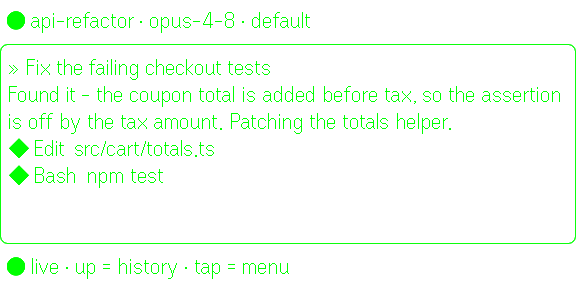
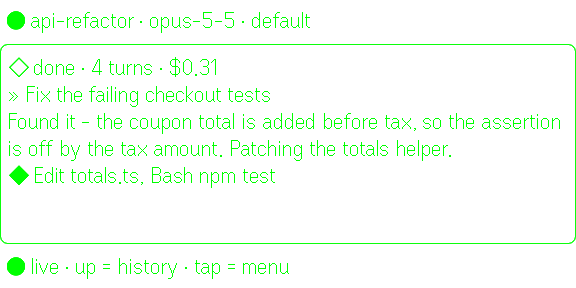
docs: refresh README/.env.example; add a mock bridge; re-stage stale store shots
README: point at the canonical hosts (code.claude.com/docs and
hub.evenrealities.com -- the old URLs redirect), fix a typo, and use
spaced hyphens in the release-notice paragraph like the rest of the
README.

.env.example: document VITE_LIVE_ROWS and VITE_HUD_CHARS_PER_ROW, which
config.ts reads but the file (which the README says lists them all)
omitted; describe the live tail as row-budgeted with a byte ceiling; and
leave VITE_BRIDGE_TOKEN blank. The bridge reads this file and binds
0.0.0.0, so copying it unedited used to run a session-steering bridge on
the well-known token `change-me`; blank falls through to the generated
passphrase, which the bridge prints.

scripts/mock-bridge.py serves three fictional sessions (no login,
nothing real to steer) for simulator work and store-shot staging. The
script the store shots were first staged with was never committed and is
gone; this one reproduces 01-sessions.png byte-for-byte. CLAUDE.md now
says to point the simulator at it, never at a real bridge.

Re-staged with it: 02-session-live.png (the README hero), which showed
opus-4-8 and the pre-1.6 one-line-per-tool layout that the README says
tool runs no longer use, and 08-panel.png, which showed Opus 4.8.

diff --git a/scripts/mock-bridge.py b/scripts/mock-bridge.py
@@ -1,0 +1,242 @@
+#!/usr/bin/env python3
+"""A mock Claude Remote bridge that serves three fictional sessions.
+
+For driving the app (dev server, simulator, browser) with no Claude login and
+nothing real to steer, and for staging the store screenshots in assets/store/
+(the repo is public, so never shoot real sessions). It implements the read side
+of the bridge API with the shapes in src/rc/types.ts; every POST is accepted and
+ignored, and any token is accepted.
+
+    python3 scripts/mock-bridge.py [--port 8791] [--question]
+    VITE_BRIDGE_URL=http://localhost:8791 VITE_BRIDGE_TOKEN=x npm run dev
+
+Sessions: api-refactor (running), docs-site (idle), and payment-service, blocked
+on a Bash permission, or on an AskUserQuestion with --question.
+"""
+
+from __future__ import annotations
+
+import argparse
+import json
+import re
+import time
+from http.server import BaseHTTPRequestHandler, ThreadingHTTPServer
+from typing import Any, ClassVar
+from urllib.parse import urlparse
+
+
+def _ago(minutes: int) -> str:
+    return time.strftime("%Y-%m-%dT%H:%M:%SZ", time.gmtime(time.time() - minutes * 60))
+
+
+def _session(sid: str, title: str, worker: str, model: str, minutes_ago: int) -> dict[str, Any]:
+    return {
+        "id": sid,
+        "title": title,
+        "status": "active",
+        "workerStatus": worker,
+        "connectionStatus": "connected",
+        "statusBucket": None,
+        "model": model,
+        "permissionMode": "default",
+        "lastEventAt": _ago(minutes_ago),
+        "unread": False,
+        "userMessageCount": 2,
+        "pendingAction": None,
+    }
+
+
+def _event(seq: int, kind: str, **f: Any) -> dict[str, Any]:
+    control = f.get("control")
+    return {
+        "type": kind,
+        "subtype": f.get("subtype"),
+        "role": kind if kind in ("user", "assistant") else None,
+        "text": f.get("text", ""),
+        "toolUses": [
+            {"name": name, "input": inp, "id": f"toolu_{seq}_{i}"} for i, (name, inp) in enumerate(f.get("tools", []))
+        ],
+        "sequenceNum": seq,
+        "id": f"ev-{seq}",
+        "timestamp": None,
+        "model": f.get("model"),
+        "isTurnEnd": kind == "result",
+        "isTerminal": False,
+        "isBlockingControl": control is not None,
+        "blockingSubtype": "can_use_tool" if control else None,
+        "requestId": f"req-{seq}" if control else None,
+        "toolUseId": f"toolu_{seq}" if control else None,
+        "permissionRequest": control,
+        "usage": f.get("usage"),
+    }
+
+
+def _permission(tool: str, inp: dict[str, Any], questions: list[dict[str, Any]] | None = None) -> dict[str, Any]:
+    return {
+        "subtype": "can_use_tool",
+        "toolName": tool,
+        "toolUseId": None,
+        "input": inp,
+        "suggestions": None,
+        "dialogKind": None,
+        "questions": questions or [],
+        "prompt": None,
+        "raw": {},
+    }
+
+
+def _usage(turns: int, seconds: float, cost: float) -> dict[str, Any]:
+    return {"costUsd": cost, "numTurns": turns, "durationMs": int(seconds * 1000), "isError": False}
+
+
+RATE_LIMIT_QUESTION = {
+    "header": "Rate limit",
+    "question": "How should I rate-limit checkout?",
+    "multiSelect": False,
+    "options": [
+        {"label": "Token bucket", "description": "smooth bursts"},
+        {"label": "Fixed window", "description": "simplest"},
+        {"label": "Sliding window", "description": "needs Redis"},
+    ],
+}
+
+
+def build_world(question: bool) -> tuple[list[dict[str, Any]], dict[str, list[dict[str, Any]]]]:
+    sessions = [
+        _session("session_mock_api", "api-refactor", "running", "claude-opus-5-5", 0),
+        _session("session_mock_docs", "docs-site", "idle", "claude-sonnet-5-5", 42),
+        _session("session_mock_pay", "payment-service", "requires_action", "claude-opus-5-5", 3),
+    ]
+    if question:
+        blocker = _permission("AskUserQuestion", {"questions": [RATE_LIMIT_QUESTION]}, [RATE_LIMIT_QUESTION])
+    else:
+        blocker = _permission("Bash", {"command": "./scripts/deploy.sh staging", "description": "Deploy to staging"})
+    events = {
+        "session_mock_api": [
+            _event(1, "system", subtype="init", model="claude-opus-5-5"),
+            _event(2, "user", text="Refactor the checkout API to use the new session store"),
+            _event(
+                3,
+                "assistant",
+                text="Swapped the checkout routes onto the new session store and updated all three call sites.",
+                tools=[("Edit", {"file_path": "src/api/checkout.ts"}), ("Bash", {"command": "npx tsc --noEmit"})],
+            ),
+            _event(4, "result", subtype="success", usage=_usage(4, 92.0, 0.31)),
+            _event(5, "user", text="Fix the failing checkout tests"),
+            _event(
+                6,
+                "assistant",
+                text="Found it - the coupon total is added before tax, so the assertion is off by the tax "
+                "amount. Patching the totals helper.",
+                tools=[("Edit", {"file_path": "src/cart/totals.ts"}), ("Bash", {"command": "npm test"})],
+            ),
+        ],
+        "session_mock_docs": [
+            _event(1, "system", subtype="init", model="claude-sonnet-5-5"),
+            _event(2, "user", text="Proofread the getting-started guide"),
+            _event(
+                3,
+                "assistant",
+                text="Fixed four typos and a broken link to the install page.",
+                tools=[
+                    ("Read", {"file_path": "docs/getting-started.md"}),
+                    ("Edit", {"file_path": "docs/getting-started.md"}),
+                ],
+            ),
+            _event(4, "result", subtype="success", usage=_usage(3, 41.5, 0.12)),
+        ],
+        "session_mock_pay": [
+            _event(1, "system", subtype="init", model="claude-opus-5-5"),
+            _event(2, "user", text="Ship the rate limiter to staging"),
+            _event(3, "assistant", text="Tests pass. Deploying to staging next."),
+            _event(4, "control_request", control=blocker),
+        ],
+    }
+    return sessions, events
+
+
+_R_SESSION = re.compile(r"^/api/sessions/(?P<sid>[^/]+)(?P<rest>/events|/stream)?$")
+
+
+class _Handler(BaseHTTPRequestHandler):
+    sessions: ClassVar[list[dict[str, Any]]] = []
+    events: ClassVar[dict[str, list[dict[str, Any]]]] = {}
+
+    def log_message(self, fmt: str, *args: Any) -> None:
+        pass
+
+    def _cors(self) -> None:
+        self.send_header("Access-Control-Allow-Origin", "*")
+        self.send_header("Access-Control-Allow-Headers", "Authorization, Content-Type")
+        self.send_header("Access-Control-Allow-Methods", "GET, POST, OPTIONS")
+
+    def _json(self, obj: Any, status: int = 200) -> None:
+        body = json.dumps(obj).encode()
+        self.send_response(status)
+        self.send_header("Content-Type", "application/json")
+        self.send_header("Content-Length", str(len(body)))
+        self._cors()
+        self.end_headers()
+        self.wfile.write(body)
+
+    def do_OPTIONS(self) -> None:
+        self.send_response(204)
+        self._cors()
+        self.end_headers()
+
+    def do_POST(self) -> None:
+        self.rfile.read(int(self.headers.get("Content-Length") or 0))
+        self._json({"ok": True})
+
+    def do_GET(self) -> None:
+        path = urlparse(self.path).path
+        if path == "/api/whoami":
+            return self._json({"logged_in": True, "subscription": "max"})
+        if path in ("/api/sessions", "/api/sessions/"):
+            return self._json({"sessions": self.sessions})
+        m = _R_SESSION.match(path)
+        if not m:
+            return self._json({"error": "not found", "status": 404}, status=404)
+        session = next((s for s in self.sessions if s["id"] == m["sid"]), None)
+        if not session:
+            return self._json({"error": "session not active", "status": 409}, status=409)
+        if m["rest"] == "/events":
+            return self._json({"events": self.events.get(session["id"], [])})
+        if m["rest"] == "/stream":
+            return self._stream()
+        return self._json({"session": session})
+
+    def _stream(self) -> None:
+        """An SSE stream with nothing new to say: held open with keep-alives."""
+        self.send_response(200)
+        self.send_header("Content-Type", "text/event-stream")
+        self.send_header("Cache-Control", "no-cache")
+        self._cors()
+        self.end_headers()
+        try:
+            self.wfile.write(b"retry: 3000\n\n")
+            while True:
+                self.wfile.flush()
+                time.sleep(15)
+                self.wfile.write(b": keep-alive\n\n")
+        except (BrokenPipeError, ConnectionResetError):
+            pass
+
+
+def main() -> None:
+    ap = argparse.ArgumentParser(description=__doc__.split("\n\n")[0])
+    ap.add_argument("--port", type=int, default=8791, help="port (default 8791)")
+    ap.add_argument("--question", action="store_true", help="block payment-service on a question, not a permission")
+    args = ap.parse_args()
+    _Handler.sessions, _Handler.events = build_world(args.question)
+    server = ThreadingHTTPServer(("127.0.0.1", args.port), _Handler)
+    server.daemon_threads = True
+    print(f"mock bridge on http://localhost:{args.port} (any token)", flush=True)
+    try:
+        server.serve_forever()
+    except KeyboardInterrupt:
+        pass
+
+
+if __name__ == "__main__":
+    main()

diff --git a/README.md b/README.md
@@ -1,6 +1,6 @@
 # Claude Remote
 
-Steer live [Claude Code](https://docs.anthropic.com/en/docs/claude-code)
+Steer live [Claude Code](https://code.claude.com/docs)
 remote-control sessions from [Even Realities G2](https://www.evenrealities.com)
 glasses: the event stream on the HUD, the touchpad to approve and reply, the mic
 to dictate. A companion phone panel mirrors it all with a fuller control surface.
@@ -12,11 +12,11 @@ to dictate. A companion phone panel mirrors it all with a fuller control surface
 ## Quick start
 
 1. **Install the app** on your glasses from the
-   [Even Hub](https://evenhub.evenrealities.com/landing?package_id=com.thatcrispytoast.clauderemote),
+   [Even Hub](https://hub.evenrealities.com/landing?package_id=com.thatcrispytoast.clauderemote),
    or sideload a packed `claude-remote-<version>.ehpk`.
 
 2. **Run the bridge** on the machine where you're logged in to Claude Code (needs
-   [uv](https://docs.astral.sh/uv/)) or an analagous python manager:
+   [uv](https://docs.astral.sh/uv/)) or an analogous Python manager:
 
    ```bash
    uvx --from "git+https://github.com/ThatCrispyToast/g2-claude-remote#subdirectory=server" claude-remote-bridge
@@ -106,12 +106,12 @@ un-clipped event log with tool inputs and usage/cost, free-text sends with `/`
 slash-command autocomplete, every steering control, and the Settings card. It
 still works as a plain-browser web app with no glasses connected.
 
-App updates can also carry a **release notice** — a slim dismissible card above
+App updates can also carry a **release notice** - a slim dismissible card above
 the session list for anything important (say, "update your bridge"). Notices are
 baked into the build (nothing is fetched), and each one shows until dismissed,
 then never again on that device. On the glasses the same notice appears once as
-a scrollable screen right after connect — tap acknowledges it, double-tap defers
-it to the next launch — and acknowledging on either surface retires it on both.
+a scrollable screen right after connect - tap acknowledges it, double-tap defers
+it to the next launch - and acknowledging on either surface retires it on both.
 
 <p align="center">
   <img src="assets/store/08-panel.png" width="45%" alt="Companion phone panel">

diff --git a/CLAUDE.md b/CLAUDE.md
@@ -63,6 +63,7 @@ npm run bridge       # bridge → 0.0.0.0:8790 (config from .env.local)
 npm run bridge:uv    # bridge through ../claude-rc-api's uv env (sibling checkout)
 npm run pack         # env-free build + version check → claude-remote-<version>.ehpk
 npx @evenrealities/evenhub-cli qr --url http://<host>:5175   # sideload QR
+python3 scripts/mock-bridge.py   # fictional sessions → localhost:8791 (any token)
 ```
 
 - **Bump `version` in both `package.json` and `app.json`** (kept identical) on
@@ -84,6 +85,13 @@ npx @evenrealities/evenhub-cli qr --url http://<host>:5175   # sideload QR
   Relaunch after every edit — Vite HMR does NOT reload the entry module. The sim
   caps text containers at 999 bytes. Real hardware is still needed for the mic
   and true native scroll.
+- **Point the simulator at the mock bridge, never a real one.** Run the dev
+  server with `VITE_BRIDGE_URL=http://localhost:8791 VITE_BRIDGE_TOKEN=x` (process
+  env beats `.env.local`). A tap on a real session list can fire into a live
+  session, and `assets/store/` must never show real session names — the repo is
+  public. The store shots are staged this way: `--question` blocks
+  payment-service on an AskUserQuestion instead of a Bash permission, and a long
+  `VITE_QUICK_SENDS` text stages the confirm screen.
 - **No Even bridge (plain browser) = panel-only mode** — glasses/gesture/mic
   paths skip; the session list, stream, and steering still work via the panel.
 
